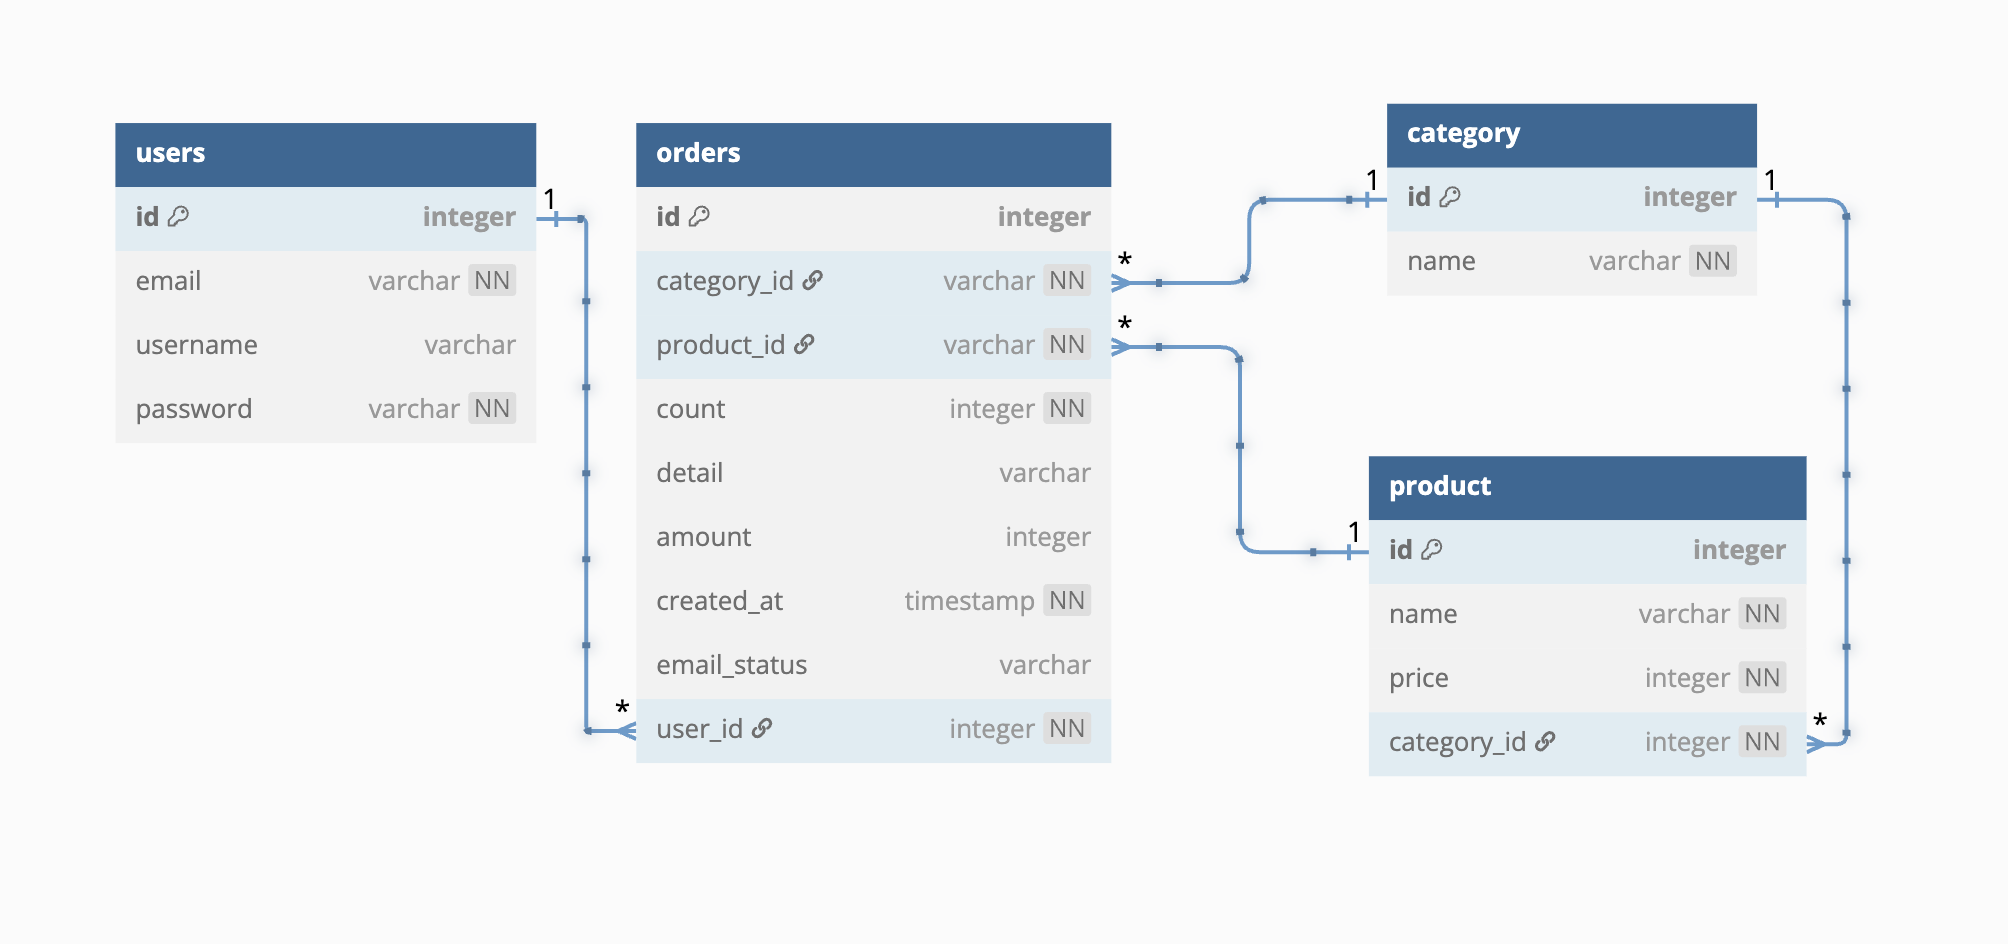
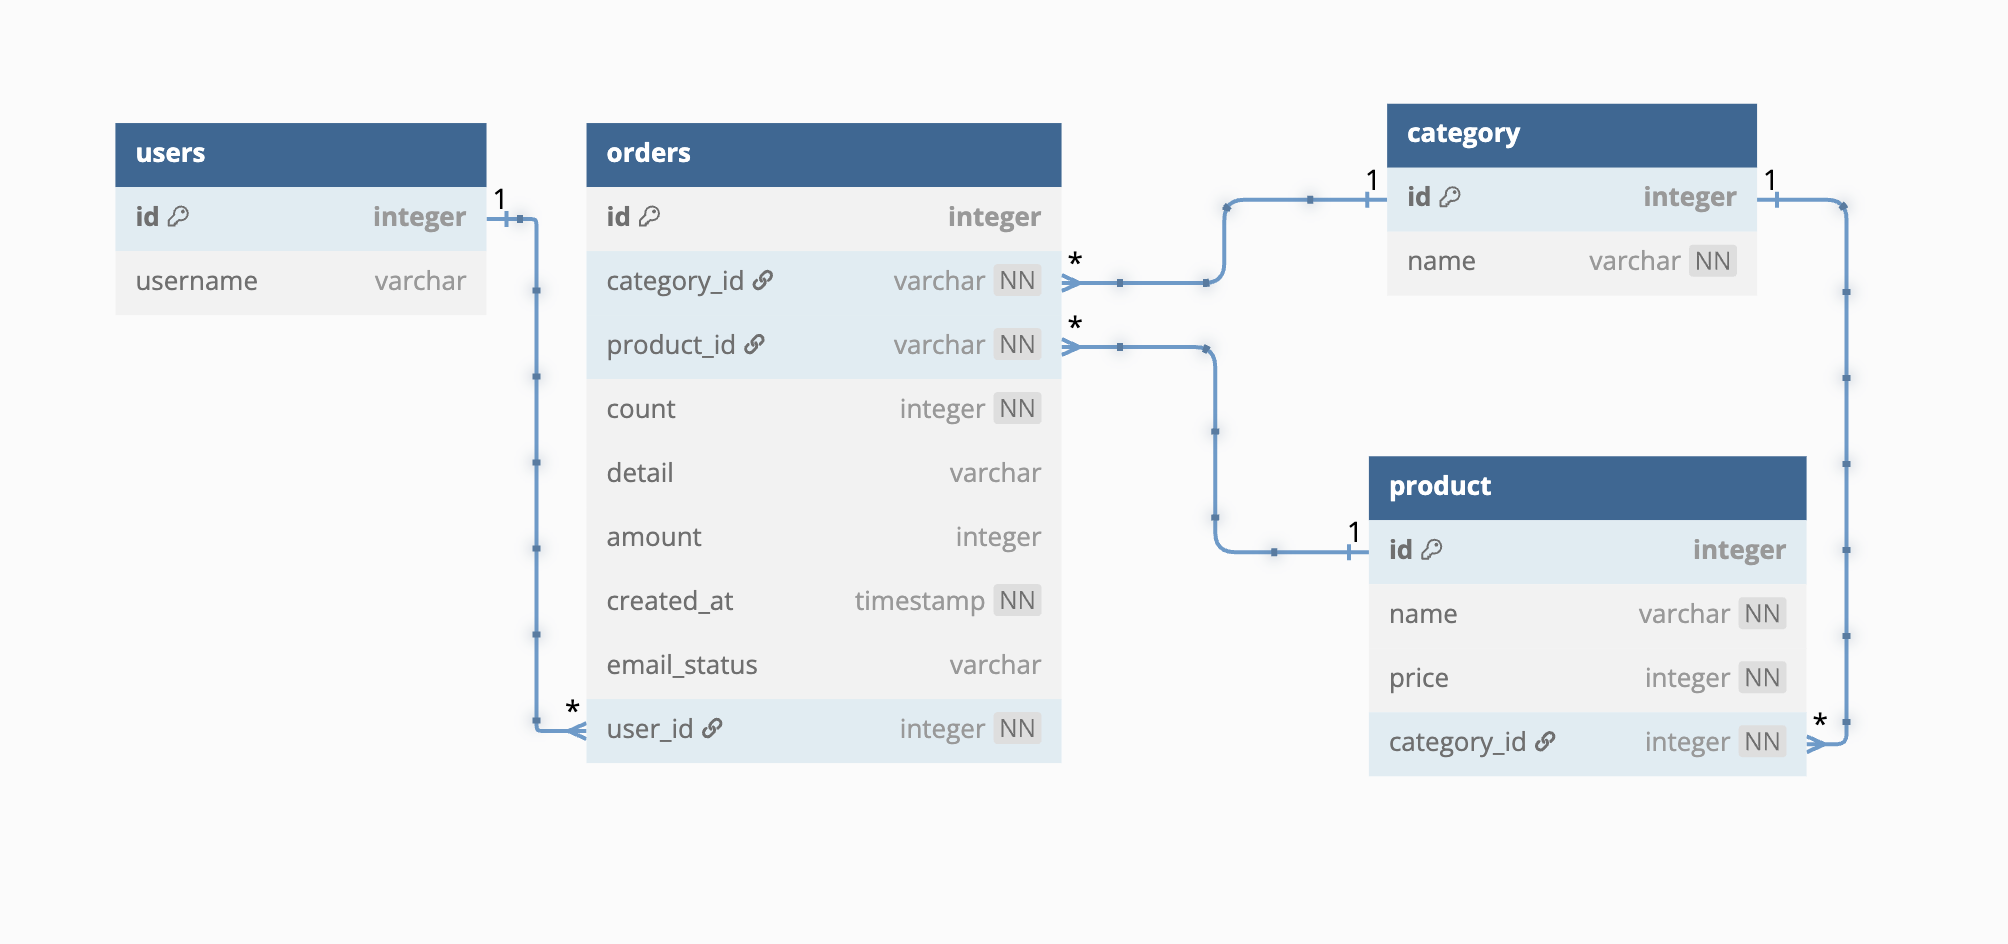
docs: 사용자 테이블 컬럼 변경

diff --git a/src/main/java/ordering/entity/User.java b/src/main/java/ordering/entity/User.java
@@ -15,14 +15,8 @@ public class User {
     @GeneratedValue(strategy = GenerationType.IDENTITY)
     private Long id;
 
-    @Column(nullable = false)
-    private String email;
-
     @Column(name = "username")
     private String name;
-
-    @Column(nullable = false)
-    private String password;
 
     public User() {
     }
@@ -31,15 +25,7 @@ public class User {
         return id;
     }
 
-    public String getEmail() {
-        return email;
-    }
-
     public String getName() {
         return name;
-    }
-
-    public String getPassword() {
-        return password;
     }
 }